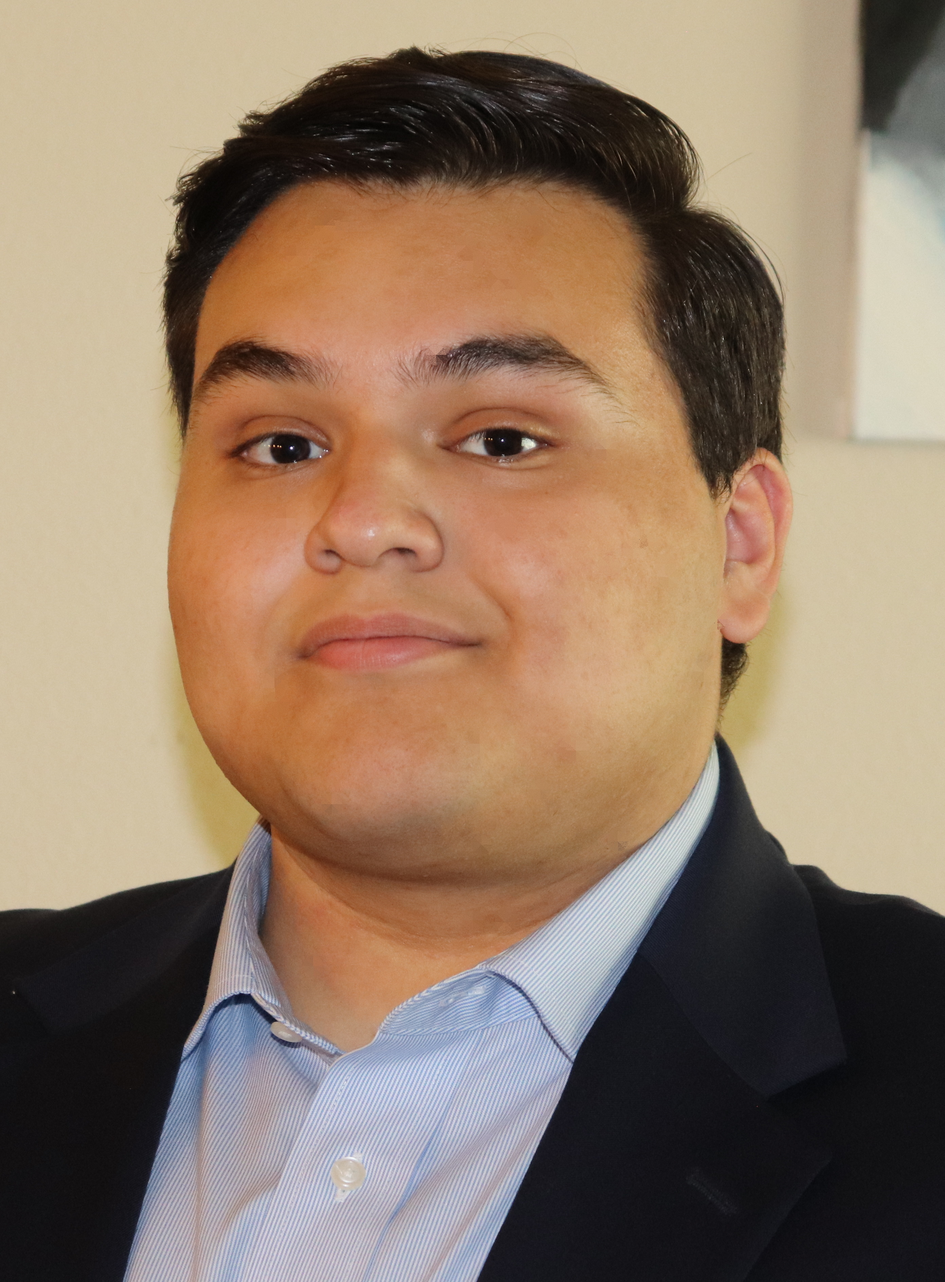
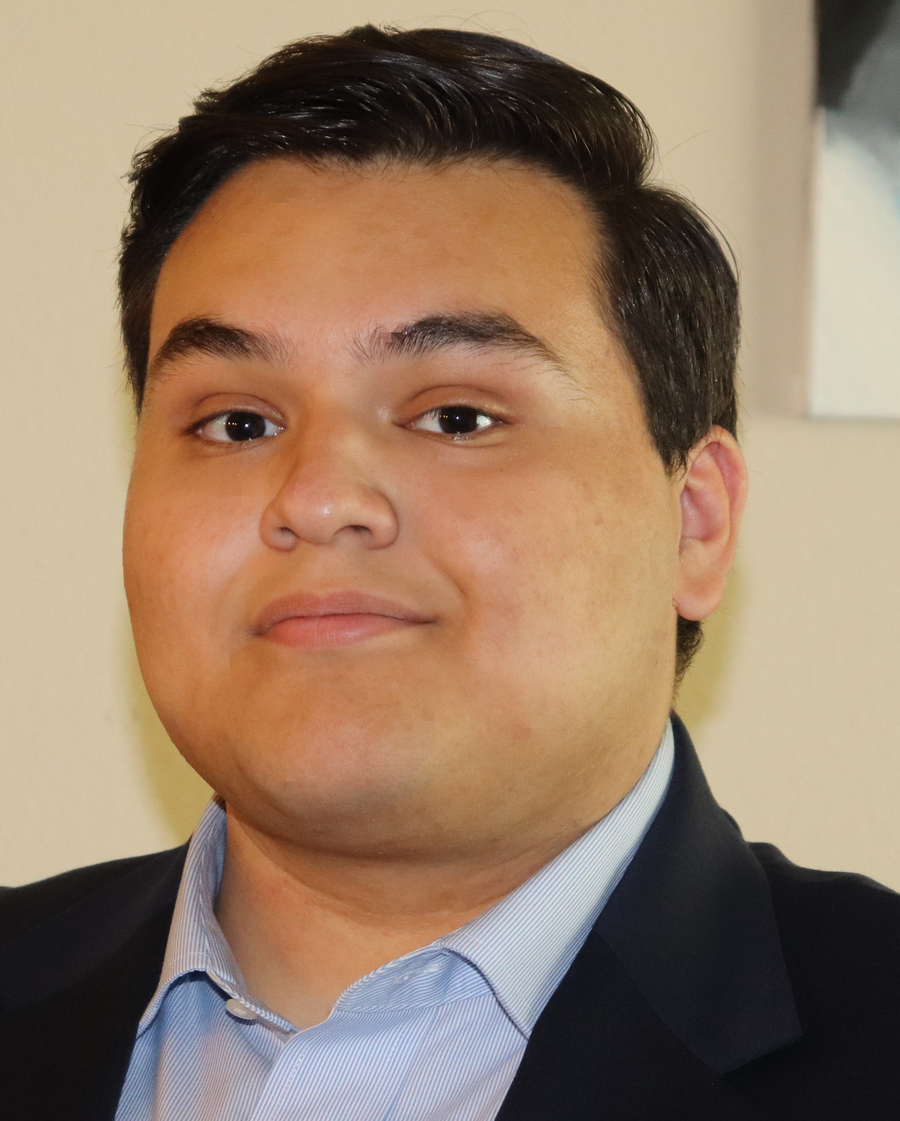
added about me text and pfp

diff --git a/index.html b/index.html
@@ -85,44 +85,29 @@
             </li>
         </ul>
     </nav>
-          <!-- ./ Nav -->
+  <!-- ./ Nav -->
     <main class="container">
- <!-- <div class="row row-example">
-        <div class="col-sm-6 col-md-4 col-lg-3 col-xl-2">
-          <div class="col-example">1</div>
-        </div>
-        <div class="col-sm-6 col-md-4 col-lg-3 col-xl-2">
-          <div class="col-example">2</div>
-        </div>
-        <div class="col-sm-6 col-md-4 col-lg-3 col-xl-2">
-          <div class="col-example">3</div>
-        </div>
-        <div class="col-sm-6 col-md-4 col-lg-3 col-xl-2">
-          <div class="col-example">9</div>
-        </div>
-        <div class="col-sm-6 col-md-4 col-lg-3 col-xl-2">
-          <div class="col-example">10</div>
-        </div>
-        <div class="col-sm-6 col-md-4 col-lg-3 col-xl-2">
-          <div class="col-example">11</div>
-        </div>
-        <div class="col-sm-6 col-md-4 col-lg-3 col-xl-2">
-          <div class="col-example">12</div>
-        </div>
-      </div> -->
         <article class="row row-example">
           <div class="col-sm-6 col-md-4 col-lg-3 col-xl-5">
-            <img src="img/Ortiz-Chaves_Daniel.JPG" alt="image of daniel ortiz" style="width:375px;height: 525px;">
+            <img src="img/Ortiz-Chaves_Daniel.JPG" alt="image of daniel ortiz" class="homepfp">
+            
+            <div class="mytitles">
+              <h3>Software Developer/Engineer</h3>
+              <h3>B.S. Computer Science</h3>
+              <h3><a class="aggie" href="https://engineering.tamu.edu/cse/index.html"> Texas A&M </a>Class of 2023</h3>
+            </div>
+
           </div>
           
-          <div class="col-sm-6 col-md-4 col-lg-3 col-xl-4">
+          <div class="col-sm-6 col-md-4 col-lg-3 col-xl-7">
 
             <div >
-              <h2>
-                About Me
-              </h2>
+              <h2 class="abouttext">About Me</h2>
               <p>
-                Here's some text about me
+                Born in Colombia, I am a Computer Scientist who's always looking for another challenge to overcome. I am team player with a strong work ethic who is capable of rapidly adapting to new situations and can quickly learn the skills necessary to overcome current challenges. With over 8 years of experience in programming in a variety of languages, I'm eager to develop software that would help change the world of tomorrow. I strive to make the most of any situation and meet with a number of diverse peoples.
+              </p>
+              <p>
+                As I progress through my bachelors, I am certain that I can quickly gain any skill or qualifications needed for working alongside the team and work on expanding the team's project to the best of our ability.
               </p>
             </div>
             

diff --git a/css/Custom.css b/css/Custom.css
@@ -1,0 +1,19 @@
+.aggie{
+    display: inline;
+    color: #500;
+}
+
+.mytitles h3{
+    margin: 0;
+    padding: 0;
+}
+
+.abouttext{
+    margin-bottom: 0.5em;
+}
+
+.homepfp{
+    width: 16rem;
+    height: 20rem;
+    border-radius: 20%;
+}
